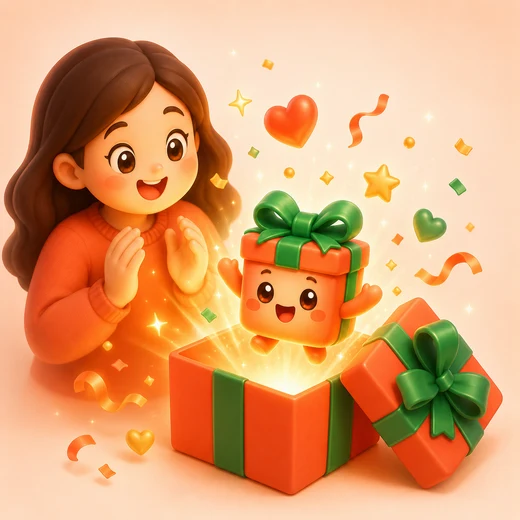
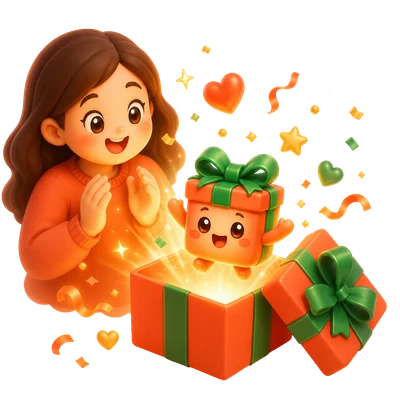
feat(ui): refresh how-it-works with new square step art
Swap in the new create/share/open illustrations and present each step as
a full-bleed square thumbnail with the title and caption beneath, instead
of a tiny contained image in a white box.

diff --git a/app/page.tsx b/app/page.tsx
@@ -44,14 +44,27 @@ export default function Home() {
 
       {/* How it works */}
       <div className="mt-8 grid grid-cols-3 gap-3">
-        {STEPS.map((s) => (
+        {STEPS.map((s, i) => (
           <div
             key={s.title}
-            className="soft flex flex-col items-center gap-1 rounded-3xl px-2 py-4 text-center"
+            style={{ "--i": i } as React.CSSProperties}
+            className="soft overflow-hidden rounded-3xl pb-3 text-center"
           >
-            <Image src={s.art} alt="" width={64} height={64} className="h-14 w-14 object-contain" />
-            <span className="mt-1 text-sm font-bold text-ink">{s.title}</span>
-            <span className="text-[11px] leading-tight text-ink/50">{s.desc}</span>
+            <div className="relative aspect-square w-full overflow-hidden">
+              <Image
+                src={s.art}
+                alt=""
+                fill
+                sizes="120px"
+                className="object-cover"
+              />
+            </div>
+            <span className="mt-2 block text-sm font-bold text-ink">
+              {s.title}
+            </span>
+            <span className="mt-0.5 block px-1.5 text-[11px] leading-tight text-ink/50">
+              {s.desc}
+            </span>
           </div>
         ))}
       </div>